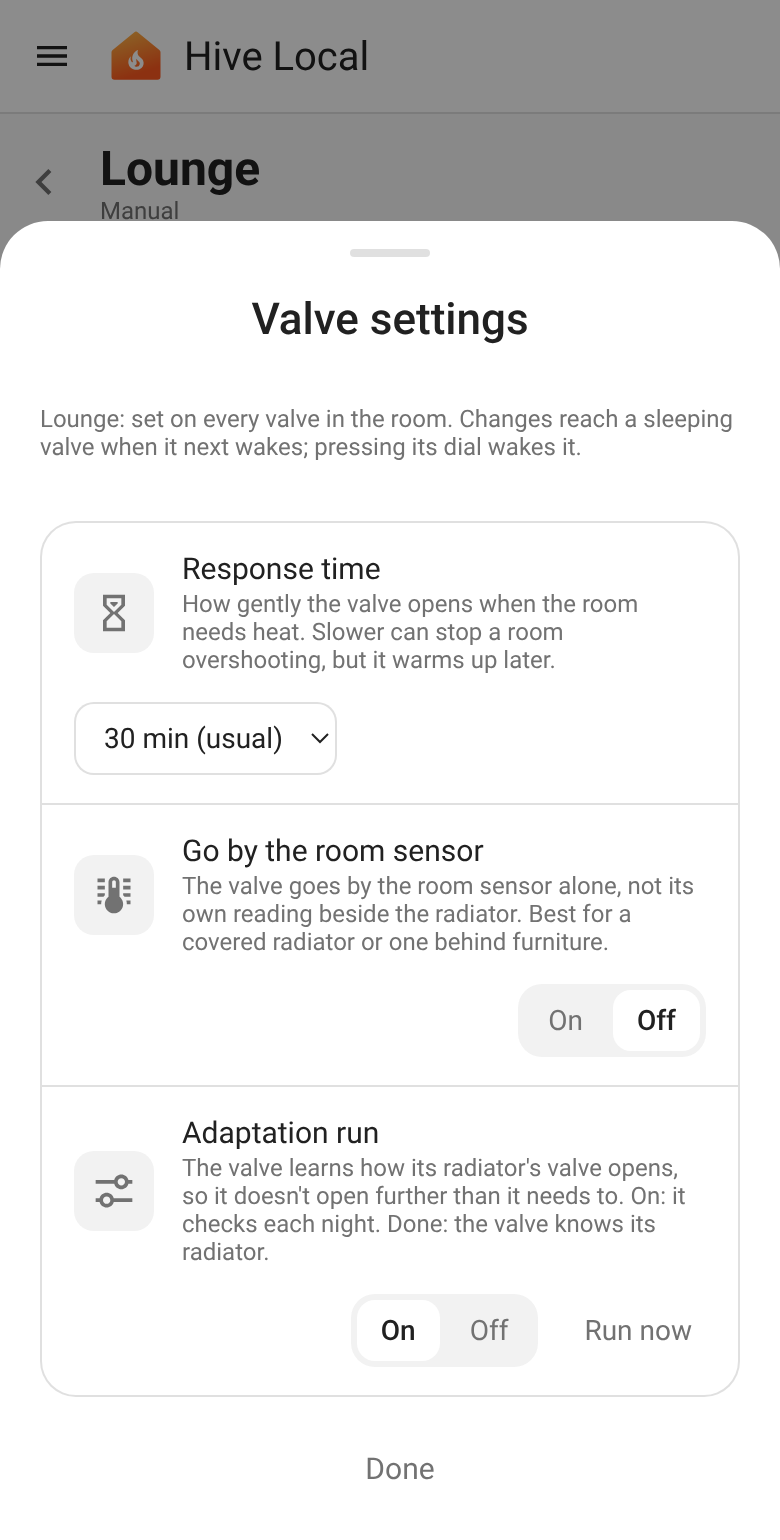
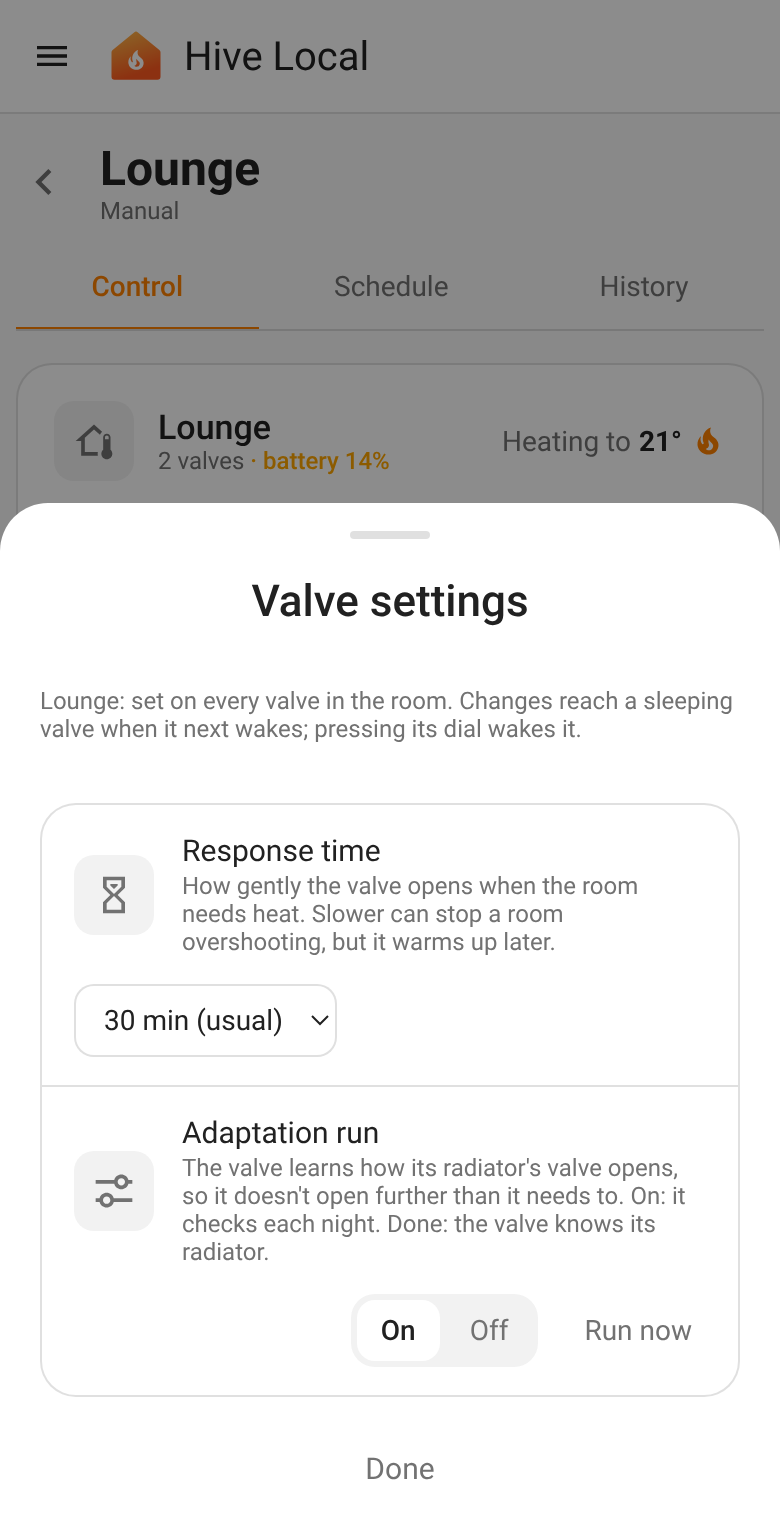
refactor(rooms): drop the radiator covered setting from valve settings
Only for a radiator behind a cover or furniture, which isn't Elliot's case: the valve then goes by the room sensor alone, which reacts slowly and can add to overshoot. The room sensor is still sent to the valves, which use it to correct their own reading.

Claude-Session: https://claude.ai/code/session_01P2tYEX1hUAEHMdkq1r3atj

diff --git a/custom_components/hive_local/frontend/hive-local-panel.js b/custom_components/hive_local/frontend/hive-local-panel.js
@@ -8016,7 +8016,7 @@ function Ue({ getHass: e, room: t, onClose: n }) {
 			onClick: () => t.value !== n && h(e, n),
 			children: n ? "On" : "Off"
 		}, String(n)))
-	}), x = g && !g.response.supported && !g.covered.supported && !g.adaptation.supported && !g.adaptation_run.supported;
+	}), x = g && !g.response.supported && !g.adaptation.supported && !g.adaptation_run.supported;
 	return /* @__PURE__ */ (0, f.jsx)("div", {
 		className: "sheet-backdrop",
 		onClick: (e) => {
@@ -8053,99 +8053,72 @@ function Ue({ getHass: e, room: t, onClose: n }) {
 				}),
 				g && !x && /* @__PURE__ */ (0, f.jsxs)("div", {
 					className: "settings-group",
-					children: [
-						g.response.supported > 0 && /* @__PURE__ */ (0, f.jsxs)("div", {
-							className: "settings-row",
-							children: [
-								/* @__PURE__ */ (0, f.jsx)("span", {
-									className: "device-icon",
-									children: /* @__PURE__ */ (0, f.jsx)(p, { name: "timer-sand" })
-								}),
-								/* @__PURE__ */ (0, f.jsxs)("div", {
-									className: "settings-text",
-									children: [/* @__PURE__ */ (0, f.jsx)("span", { children: "Response time" }), /* @__PURE__ */ (0, f.jsxs)("span", {
-										className: "muted small",
-										children: [
-											"How gently the valve opens when the room needs heat. Slower can stop a room overshooting, but it warms up later.",
-											v(g.response),
-											_(g.response)
-										]
-									})]
-								}),
-								/* @__PURE__ */ (0, f.jsxs)("select", {
-									"aria-label": "Response time",
-									value: g.response.value == null ? "" : String(g.response.value),
+					children: [g.response.supported > 0 && /* @__PURE__ */ (0, f.jsxs)("div", {
+						className: "settings-row",
+						children: [
+							/* @__PURE__ */ (0, f.jsx)("span", {
+								className: "device-icon",
+								children: /* @__PURE__ */ (0, f.jsx)(p, { name: "timer-sand" })
+							}),
+							/* @__PURE__ */ (0, f.jsxs)("div", {
+								className: "settings-text",
+								children: [/* @__PURE__ */ (0, f.jsx)("span", { children: "Response time" }), /* @__PURE__ */ (0, f.jsxs)("span", {
+									className: "muted small",
+									children: [
+										"How gently the valve opens when the room needs heat. Slower can stop a room overshooting, but it warms up later.",
+										v(g.response),
+										_(g.response)
+									]
+								})]
+							}),
+							/* @__PURE__ */ (0, f.jsxs)("select", {
+								"aria-label": "Response time",
+								value: g.response.value == null ? "" : String(g.response.value),
+								disabled: a,
+								onChange: (e) => e.target.value && h("response", Number(e.target.value)),
+								children: [g.response.value == null && /* @__PURE__ */ (0, f.jsx)("option", {
+									value: "",
+									children: "Unknown"
+								}), r.response_minutes.map((e) => /* @__PURE__ */ (0, f.jsxs)("option", {
+									value: e,
+									children: [
+										e,
+										" min",
+										e === 30 ? " (usual)" : ""
+									]
+								}, e))]
+							})
+						]
+					}), (g.adaptation.supported > 0 || g.adaptation_run.supported > 0) && /* @__PURE__ */ (0, f.jsxs)("div", {
+						className: "settings-row",
+						children: [
+							/* @__PURE__ */ (0, f.jsx)("span", {
+								className: "device-icon",
+								children: /* @__PURE__ */ (0, f.jsx)(p, { name: "tune-variant" })
+							}),
+							/* @__PURE__ */ (0, f.jsxs)("div", {
+								className: "settings-text",
+								children: [/* @__PURE__ */ (0, f.jsx)("span", { children: "Adaptation run" }), /* @__PURE__ */ (0, f.jsxs)("span", {
+									className: "muted small",
+									children: [
+										"The valve learns how its radiator's valve opens, so it doesn't open further than it needs to. On: it checks each night.",
+										g.adaptation_status.value == null ? "" : ` ${Ve[String(g.adaptation_status.value)] ?? ""}${g.adaptation_status.mixed ? " on some valves" : ""}.`,
+										v(g.adaptation),
+										_(g.adaptation)
+									]
+								})]
+							}),
+							/* @__PURE__ */ (0, f.jsxs)("div", {
+								className: "settings-controls",
+								children: [g.adaptation.supported > 0 && y("adaptation", g.adaptation, "Adaptation run"), g.adaptation_run.supported > 0 && /* @__PURE__ */ (0, f.jsx)("button", {
+									className: "ghost",
 									disabled: a,
-									onChange: (e) => e.target.value && h("response", Number(e.target.value)),
-									children: [g.response.value == null && /* @__PURE__ */ (0, f.jsx)("option", {
-										value: "",
-										children: "Unknown"
-									}), r.response_minutes.map((e) => /* @__PURE__ */ (0, f.jsxs)("option", {
-										value: e,
-										children: [
-											e,
-											" min",
-											e === 30 ? " (usual)" : ""
-										]
-									}, e))]
-								})
-							]
-						}),
-						g.covered.supported > 0 && /* @__PURE__ */ (0, f.jsxs)("div", {
-							className: "settings-row",
-							children: [
-								/* @__PURE__ */ (0, f.jsx)("span", {
-									className: "device-icon",
-									children: /* @__PURE__ */ (0, f.jsx)(p, { name: "thermometer-lines" })
-								}),
-								/* @__PURE__ */ (0, f.jsxs)("div", {
-									className: "settings-text",
-									children: [/* @__PURE__ */ (0, f.jsx)("span", { children: "Go by the room sensor" }), /* @__PURE__ */ (0, f.jsxs)("span", {
-										className: "muted small",
-										children: [
-											"The valve goes by the room sensor alone, not its own reading beside the radiator. Best for a covered radiator or one behind furniture.",
-											v(g.covered),
-											_(g.covered)
-										]
-									})]
-								}),
-								/* @__PURE__ */ (0, f.jsx)("div", {
-									className: "settings-controls",
-									children: y("covered", g.covered, "Go by the room sensor")
-								})
-							]
-						}),
-						(g.adaptation.supported > 0 || g.adaptation_run.supported > 0) && /* @__PURE__ */ (0, f.jsxs)("div", {
-							className: "settings-row",
-							children: [
-								/* @__PURE__ */ (0, f.jsx)("span", {
-									className: "device-icon",
-									children: /* @__PURE__ */ (0, f.jsx)(p, { name: "tune-variant" })
-								}),
-								/* @__PURE__ */ (0, f.jsxs)("div", {
-									className: "settings-text",
-									children: [/* @__PURE__ */ (0, f.jsx)("span", { children: "Adaptation run" }), /* @__PURE__ */ (0, f.jsxs)("span", {
-										className: "muted small",
-										children: [
-											"The valve learns how its radiator's valve opens, so it doesn't open further than it needs to. On: it checks each night.",
-											g.adaptation_status.value == null ? "" : ` ${Ve[String(g.adaptation_status.value)] ?? ""}${g.adaptation_status.mixed ? " on some valves" : ""}.`,
-											v(g.adaptation),
-											_(g.adaptation)
-										]
-									})]
-								}),
-								/* @__PURE__ */ (0, f.jsxs)("div", {
-									className: "settings-controls",
-									children: [g.adaptation.supported > 0 && y("adaptation", g.adaptation, "Adaptation run"), g.adaptation_run.supported > 0 && /* @__PURE__ */ (0, f.jsx)("button", {
-										className: "ghost",
-										disabled: a,
-										onClick: () => h("adaptation_run", void 0, "Asked the valves to run it. It takes a few minutes, once each valve wakes."),
-										children: "Run now"
-									})]
-								})
-							]
-						})
-					]
+									onClick: () => h("adaptation_run", void 0, "Asked the valves to run it. It takes a few minutes, once each valve wakes."),
+									children: "Run now"
+								})]
+							})
+						]
+					})]
 				}),
 				/* @__PURE__ */ (0, f.jsx)("button", {
 					className: "ghost sheet-cancel",

diff --git a/frontend/src/ValveSettings.tsx b/frontend/src/ValveSettings.tsx
@@ -2,7 +2,7 @@ import { useEffect, useState } from "react";
 import { Icon } from "./Icon";
 import { errorText, type Hass, type Room } from "./types";
 
-type Key = "response" | "covered" | "adaptation" | "adaptation_run" | "adaptation_status";
+type Key = "response" | "adaptation" | "adaptation_run" | "adaptation_status";
 
 interface Setting {
   value: number | boolean | string | null;
@@ -83,7 +83,7 @@ export function ValveSettingsDialog({ getHass, room, onClose }: { getHass: () =>
       ))}
     </div>
   );
-  const none = s && !s.response.supported && !s.covered.supported && !s.adaptation.supported && !s.adaptation_run.supported;
+  const none = s && !s.response.supported && !s.adaptation.supported && !s.adaptation_run.supported;
 
   return (
     <div className="sheet-backdrop" onClick={(e) => { e.stopPropagation(); onClose(); }}>
@@ -112,19 +112,6 @@ export function ValveSettingsDialog({ getHass, room, onClose }: { getHass: () =>
                     </option>
                   ))}
                 </select>
-              </div>
-            )}
-            {s.covered.supported > 0 && (
-              <div className="settings-row">
-                <span className="device-icon"><Icon name="thermometer-lines" /></span>
-                <div className="settings-text">
-                  <span>Go by the room sensor</span>
-                  <span className="muted small">
-                    The valve goes by the room sensor alone, not its own reading beside the radiator. Best for a covered radiator or one behind furniture.
-                    {mixed(s.covered)}{partly(s.covered)}
-                  </span>
-                </div>
-                <div className="settings-controls">{onOff("covered", s.covered, "Go by the room sensor")}</div>
               </div>
             )}
             {(s.adaptation.supported > 0 || s.adaptation_run.supported > 0) && (

diff --git a/docs/screenshots/harness/harness.js b/docs/screenshots/harness/harness.js
@@ -270,7 +270,6 @@ const hass = {
           response_minutes: [5, 10, 15, 25, 30, 40, 50, 60, 70, 80],
           settings: {
             response: { value: 30, mixed, supported: 2 },
-            covered: { value: false, mixed: false, supported: 2 },
             adaptation: { value: true, mixed: false, supported: 2 },
             adaptation_run: { value: null, mixed: false, supported: 2 },
             adaptation_status: { value: "found", mixed: false, supported: 2 },

diff --git a/tests/e2e/test_valve_settings_e2e.py b/tests/e2e/test_valve_settings_e2e.py
@@ -48,9 +48,10 @@ async def test_valve_settings(hass: HomeAssistant, mqtt_mock, hass_ws_client) ->
     valve_a = entity(hass, zha, a, "climate", f"{IEEE}-1", "bedroom_valve", "heat", {"current_temperature": 19, "temperature": 20})
     response_a = entity(hass, zha, a, "select", f"{IEEE}-1-513-control_algorithm_scale_factor", "bedroom_valve_response",
                         "moderate 30min", {"options": ZHA_OPTIONS}, "setpoint_response_time")
-    covered_a = entity(hass, zha, a, "switch", f"{IEEE}-1-513-radiator_covered", "bedroom_valve_covered", "off",
-                       translation_key="prioritize_external_temperature_sensor")
-    entity(hass, zha, a, "switch", f"{IEEE}-1-513-adaptation_run_settings", "bedroom_valve_adaptation", "on",
+    # Radiator covered is left out of the settings.
+    entity(hass, zha, a, "switch", f"{IEEE}-1-513-radiator_covered", "bedroom_valve_covered", "off",
+           translation_key="prioritize_external_temperature_sensor")
+    adaptation_a = entity(hass, zha, a, "switch", f"{IEEE}-1-513-adaptation_run_settings", "bedroom_valve_adaptation", "on",
            translation_key="adaptation_run_enabled")
     run_a = entity(hass, zha, a, "select", f"{IEEE}-1-513-adaptation_run_control", "bedroom_valve_run", "Nothing",
                    {"options": ["Nothing", "Initiate", "Cancel"]}, "adaptation_run_command")
@@ -62,14 +63,14 @@ async def test_valve_settings(hass: HomeAssistant, mqtt_mock, hass_ws_client) ->
                      {"current_temperature": 19.5, "temperature": 20})
     response_b = entity(hass, z2m, b, "number", "0x84fd27fffe000002_control_algorithm_scale_factor_zigbee2mqtt",
                         "bedroom_window_valve_scale", "10", {"min": 1, "max": 10})
-    covered_b = entity(hass, z2m, b, "switch", "0x84fd27fffe000002_radiator_covered_zigbee2mqtt", "bedroom_window_valve_covered", "off")
+    adaptation_b = entity(hass, z2m, b, "switch", "0x84fd27fffe000002_adaptation_run_settings_zigbee2mqtt", "bedroom_window_valve_adaptation", "off")
 
     assert await hass.config_entries.async_setup(receiver.entry_id)
     await hass.async_block_till_done()
     # After setup: our own select, number and switch platforms register the real services.
     selects = async_mock_service(hass, "select", "select_option")
     numbers = async_mock_service(hass, "number", "set_value")
-    switches = async_mock_service(hass, "switch", "turn_on")
+    switches = async_mock_service(hass, "switch", "turn_off")
     manager = hass.data["hive_local_rooms"]
     room = await manager.async_save_room({"name": "Bedroom", "valves": [valve_a, valve_b]})
     client = await hass_ws_client(hass)
@@ -79,8 +80,8 @@ async def test_valve_settings(hass: HomeAssistant, mqtt_mock, hass_ws_client) ->
     assert msg["success"], msg
     settings = msg["result"]["settings"]
     assert settings["response"] == {"value": 30, "mixed": True, "supported": 2}  # 30 min and 80 min
-    assert settings["covered"] == {"value": False, "mixed": False, "supported": 2}
-    assert settings["adaptation"] == {"value": True, "mixed": False, "supported": 1}
+    assert "covered" not in settings
+    assert settings["adaptation"] == {"value": True, "mixed": True, "supported": 2}
     assert settings["adaptation_status"]["value"] == "found"
     assert msg["result"]["count"] == 2
 
@@ -91,10 +92,10 @@ async def test_valve_settings(hass: HomeAssistant, mqtt_mock, hass_ws_client) ->
     assert [(c.data["entity_id"], c.data["option"]) for c in selects] == [(response_a, "slow 80min")]
     assert [(c.data["entity_id"], c.data["value"]) for c in numbers] == [(response_b, 10)]
 
-    await client.send_json({"id": 3, "type": "hive_local/rooms/valve_settings/set", "room_id": room["id"], "key": "covered", "value": True})
+    await client.send_json({"id": 3, "type": "hive_local/rooms/valve_settings/set", "room_id": room["id"], "key": "adaptation", "value": False})
     msg = await client.receive_json()
     assert msg["success"], msg
-    assert sorted(c.data["entity_id"] for c in switches) == sorted([covered_a, covered_b])
+    assert sorted(c.data["entity_id"] for c in switches) == sorted([adaptation_a, adaptation_b])
 
     # An adaptation run: only the ZHA valve has the control.
     await client.send_json({"id": 4, "type": "hive_local/rooms/valve_settings/set", "room_id": room["id"], "key": "adaptation_run"})

diff --git a/custom_components/hive_local/valve_settings.py b/custom_components/hive_local/valve_settings.py
@@ -7,14 +7,15 @@ valve in a room at once. The ones that matter for how gently a room warms up:
   opens after its target or the temperature changes. Slower opens more gently, which can
   mean less overshoot, but a slower warm-up. ZHA: a select (`setpoint_response_time`) with
   options "quick 5min" … "slow 80min"; Z2M: a number, 1–10.
-- **Radiator covered** (`radiator_covered`): the valve goes by the room sensor's reading
-  instead of its own (the room sensor is sent more often then, see `valve_sensor.py`).
 - **Adaptation run** (`adaptation_run_settings` on, `adaptation_run_control` to start one,
   `adaptation_run_status`): the valve learns how its radiator's valve opens. Each night when
   it's on; once by hand after fitting or moving it.
 
-Load balancing is left out: it needs something writing the house's average load to every
-valve, which neither ZHA nor Z2M does.
+Left out: load balancing (it needs something writing the house's average load to every
+valve, which neither ZHA nor Z2M does) and radiator covered (only for a radiator behind a
+cover or furniture; the valve then goes by the room sensor alone, which reacts slowly and
+can make overshoot worse. Elliot, 2026-11-26: not wanted. `valve_sensor.py` still reads it
+for how often to send the room sensor, if it's switched on in HA).
 """
 
 from __future__ import annotations
@@ -22,7 +23,6 @@ from __future__ import annotations
 from typing import Any
 
 RESPONSE = "response"
-COVERED = "covered"
 ADAPTATION = "adaptation"
 ADAPTATION_RUN = "adaptation_run"
 ADAPTATION_STATUS = "adaptation_status"
@@ -30,7 +30,6 @@ ADAPTATION_STATUS = "adaptation_status"
 # key: (domains, attribute names in unique ids / object ids, ZHA translation keys)
 _ROLES: dict[str, tuple[tuple[str, ...], tuple[str, ...], tuple[str, ...]]] = {
     RESPONSE: (("select", "number"), ("control_algorithm_scale_factor",), ("setpoint_response_time",)),
-    COVERED: (("switch",), ("radiator_covered",), ("prioritize_external_temperature_sensor",)),
     ADAPTATION: (("switch",), ("adaptation_run_settings",), ("adaptation_run_enabled",)),
     ADAPTATION_RUN: (("select",), ("adaptation_run_control",), ("adaptation_run_command",)),
     ADAPTATION_STATUS: (("sensor",), ("adaptation_run_status",), ("adaptation_run_status",)),
@@ -88,7 +87,7 @@ def read(key: str, domain: str, state: str | None, attributes: dict[str, Any]) -
     if key == RESPONSE:
         factor = _ZHA_RESPONSE_VALUES.get(state) if domain == "select" else _number(state)
         return RESPONSE_MINUTES.get(int(factor)) if factor is not None and float(factor).is_integer() else None
-    if key in (COVERED, ADAPTATION):
+    if key == ADAPTATION:
         return state == "on" if state in ("on", "off") else None
     if key == ADAPTATION_STATUS:
         if attributes and any(k in attributes for k in ("In_progress", "Valve_characteristic_found", "Valve_characteristic_lost")):
@@ -129,7 +128,7 @@ def call(key: str, domain: str, value: Any, options: list[str] | None = None) ->
                 return None
             return "select", "select_option", {"option": option}
         return "number", "set_value", {"value": factor}
-    if key in (COVERED, ADAPTATION):
+    if key == ADAPTATION:
         if not isinstance(value, bool):
             return None
         return "switch", "turn_on" if value else "turn_off", {}

diff --git a/tests/test_valve_settings.py b/tests/test_valve_settings.py
@@ -11,7 +11,7 @@ def test_finds_zha_and_z2m_entities():
     role = v.entity_role
     assert role("select", f"{IEEE}-1-513-control_algorithm_scale_factor", "setpoint_response_time", "select.x") == v.RESPONSE
     assert role("number", "0x84fd27fffe000001_control_algorithm_scale_factor_zigbee2mqtt", None, "number.x") == v.RESPONSE
-    assert role("switch", f"{IEEE}-1-513-radiator_covered", "prioritize_external_temperature_sensor", "switch.x") == v.COVERED
+    assert role("switch", f"{IEEE}-1-513-radiator_covered", "prioritize_external_temperature_sensor", "switch.x") is None  # left out
     assert role("switch", "0x84fd_adaptation_run_settings_zigbee2mqtt", None, "switch.x") == v.ADAPTATION
     assert role("select", f"{IEEE}-1-513-adaptation_run_control", "adaptation_run_command", "select.x") == v.ADAPTATION_RUN
     assert role("sensor", "0x84fd_adaptation_run_status_zigbee2mqtt", None, "sensor.x") == v.ADAPTATION_STATUS
@@ -28,7 +28,7 @@ def test_reads_the_response_time_in_minutes():
 
 
 def test_reads_switches_and_the_adaptation_status():
-    assert v.read(v.COVERED, "switch", "on", {}) is True
+    assert v.read(v.ADAPTATION, "switch", "on", {}) is True
     assert v.read(v.ADAPTATION, "switch", "off", {}) is False
     assert v.read(v.ADAPTATION, "switch", "unknown", {}) is None
     zha = {"In_progress": False, "Valve_characteristic_found": True, "Valve_characteristic_lost": False}
@@ -44,7 +44,7 @@ def test_service_calls():
     assert v.call(v.RESPONSE, "select", 40, zha_options) is None  # not an option on this entity
     assert v.call(v.RESPONSE, "number", 40) == ("number", "set_value", {"value": 6})
     assert v.call(v.RESPONSE, "number", 33) is None
-    assert v.call(v.COVERED, "switch", True) == ("switch", "turn_on", {})
+    assert v.call(v.ADAPTATION, "switch", True) == ("switch", "turn_on", {})
     assert v.call(v.ADAPTATION, "switch", False) == ("switch", "turn_off", {})
     assert v.call(v.ADAPTATION, "switch", 1) is None
     assert v.call(v.ADAPTATION_RUN, "select", None, ["Nothing", "Initiate", "Cancel"]) == ("select", "select_option", {"option": "Initiate"})

diff --git a/custom_components/hive_local/room_manager.py b/custom_components/hive_local/room_manager.py
@@ -244,7 +244,7 @@ class RoomManager:
             state = self.hass.states.get(entity_id)
             per_valve.append({"entity_id": entity_id, "name": state.name if state else entity_id, "settings": values})
         settings = {}
-        for key in (vset.RESPONSE, vset.COVERED, vset.ADAPTATION, vset.ADAPTATION_RUN, vset.ADAPTATION_STATUS):
+        for key in (vset.RESPONSE, vset.ADAPTATION, vset.ADAPTATION_RUN, vset.ADAPTATION_STATUS):
             having = [v["settings"][key] for v in per_valve if key in v["settings"]]
             value, mixed = vset.combine(having)
             settings[key] = {"value": value, "mixed": mixed, "supported": len(having)}

diff --git a/custom_components/hive_local/websocket.py b/custom_components/hive_local/websocket.py
@@ -710,7 +710,7 @@ async def ws_rooms_valve_settings(hass, connection, msg: dict[str, Any], rooms: 
 @websocket_api.websocket_command(
     {
         vol.Required("type"): "hive_local/rooms/valve_settings/set",
-        vol.Required("key"): vol.In(["response", "covered", "adaptation", "adaptation_run"]),
+        vol.Required("key"): vol.In(["response", "adaptation", "adaptation_run"]),
         vol.Optional("value"): vol.Any(bool, vol.Coerce(int)),
     }
     | ROOM

diff --git a/CLAUDE.md b/CLAUDE.md
@@ -29,7 +29,7 @@ Don't use the domain `hive`: HA core's cloud Hive integration already has it, an
   - Tidy up duplicate entities (2026-11-26): `tidy.Tidy` (`hass.data[DATA_TIDY]`, created in `async_setup`, `.storage/hive_local.tidy`). Settings → **Entities** → "Tidy up duplicate entities" **disables** the receiver's own climate / water_heater entities on its ZHA device (the entry's `device_id`) or Z2M device (the MQTT device named after the friendly name with a `zigbee2mqtt_0x…` identifier), which Hive Local never uses, and **hides** (never disables) the climate entities of valves in a room, since rooms read and set the valves through them. Both are marked as the user's (`disabled_by` / `hidden_by` = user), so they can be switched back in HA; `changed` records what we did, and Undo puts back only those that are still as we left them. `hive_local/tidy | tidy/apply | tidy/undo` → `{receiver, valves, pending, undoable}`. `tests/e2e/test_tidy_e2e.py`.
   - Onboarding (2026-11-26): `frontend/src/Onboarding.tsx`, a walkthrough dialog (the room editor's sheet/dialog frame) shown when the panel opens until it's finished or skipped, remembered house-wide as `HouseSettings.onboarded` (`.storage/hive_local.settings`; `hive_local/settings` returns it, `settings/set {onboarded}`; false by default, so existing installs see it once). Steps, each skippable: **Your rooms** (how many areas have Hive valves not in a room, Set up rooms → `RoomSetupDialog`; mentions the room sensor going to the valves, which is on by default), **Rooms call for heat** (Settings' `DemandRows` per heating receiver; skipped without one), **Tidy up duplicate entities** (Settings' `TidySettings`, `bare`), **Outside temperature** (the house-wide select), **You're all set** (→ the Overview). Step dots, Back / Next, Skip setup; Settings ends with "Run setup again". Harness: `?onboarding=1` and `click=Next` (repeatable). `tests/e2e/test_onboarding_e2e.py`.
   - Room page (2026-11-26, Elliot: "make the rad valve page the same as the receiver one, it's an identical idea"): tapping a room card opens `RoomPage.tsx` in place of the old `RoomSheet` pop-up (gone), like `DevicePage`: back arrow, the room's name and mode (`roomModeText`: Manual / On the valves' schedule / Off / Boost · 42 min left), then **Control · Schedule · History** (the app's `deviceTab`). Control = the room's `RoomCard` with `page` (temperature and Boost) and `RoomControl` (`Rooms.tsx`: the sensor note, Target − / + (taps gathered 1.2 s → `rooms/set_target`), **Schedule / Manual / Off** → `hive_local/rooms/mode` = `RoomManager.async_set_mode`, the same modes as the room's climate entity, valves, Edit room). Schedule = `RoomScheduleDialog` with `page` (no dialog frame, kept mounted once opened). History = `Stats` with `roomId` → `hive_local/rooms/stats` (the shared `_async_stats` on the room's climate entity, unique id `room_<id>`; no cost; "Valves heating", "Started heating"). Rooms carry `mode` and `frost` in their status.
-  - Valve settings (2026-11-26, for overshoot): `valve_settings.py` (pure, tested) finds a Hive valve's (Danfoss Ally's) own setting entities on its device, ZHA (zha 2.3.1 translation keys / unique id suffixes) or Z2M (`<ieee>_<property>_zigbee2mqtt`): **response time** (`control_algorithm_scale_factor`: ZHA select `setpoint_response_time`, options "quick 5min" … "slow 80min"; Z2M number 1–10; shown as 5–80 min, 30 the usual), **radiator covered** (the same switch `valve_sensor` reads), **adaptation run** (`adaptation_run_settings` switch, `adaptation_run_control` select to start one: ZHA "Initiate", Z2M "initiate_adaptation", `adaptation_run_status`: ZHA's bitmap sensor keeps the bits as attributes). Load balancing is left out (needs something writing the house's mean load to every valve). `RoomManager.valve_settings` / `async_set_valve_setting` set one setting on every valve in a room that has it (`combine`: the most common value, `mixed`). Websocket `hive_local/rooms/valve_settings {room_id}` and `rooms/valve_settings/set {room_id, key, value?}`. Panel: "Valve settings" on the room page's Control tab → `ValveSettingsDialog` (`ValveSettings.tsx`). `tests/e2e/test_valve_settings_e2e.py`. Unverified on real valves (option names, Z2M ids).
+  - Valve settings (2026-11-26, for overshoot): `valve_settings.py` (pure, tested) finds a Hive valve's (Danfoss Ally's) own setting entities on its device, ZHA (zha 2.3.1 translation keys / unique id suffixes) or Z2M (`<ieee>_<property>_zigbee2mqtt`): **response time** (`control_algorithm_scale_factor`: ZHA select `setpoint_response_time`, options "quick 5min" … "slow 80min"; Z2M number 1–10; shown as 5–80 min, 30 the usual), **adaptation run** (`adaptation_run_settings` switch, `adaptation_run_control` select to start one: ZHA "Initiate", Z2M "initiate_adaptation", `adaptation_run_status`: ZHA's bitmap sensor keeps the bits as attributes). Left out: load balancing (needs something writing the house's mean load to every valve) and **radiator covered** (Elliot, 2026-11-26, his radiators aren't covered: removed from the dialog; the valve then goes by the room sensor alone, which reacts slowly and can add to overshoot. The room sensor is still sent to the valves, which use it to correct their own reading, and `valve_sensor` still reads the switch for the send interval). `RoomManager.valve_settings` / `async_set_valve_setting` set one setting on every valve in a room that has it (`combine`: the most common value, `mixed`). Websocket `hive_local/rooms/valve_settings {room_id}` and `rooms/valve_settings/set {room_id, key, value?}`. Panel: "Valve settings" on the room page's Control tab → `ValveSettingsDialog` (`ValveSettings.tsx`). `tests/e2e/test_valve_settings_e2e.py`. Unverified on real valves (option names, Z2M ids).
   - Pure helpers with no HA imports, unit-tested in `tests/`: `schedule.py` (schedule parse/validate/group/payloads), `z2m.py` (state → mode/status, and mode/boost payloads), `zcl.py` (the same for raw ZCL attributes and set/get_weekly_schedule args, for ZHA) and `devices.py` (filter `bridge/devices`).
   - `const.py`: limits, boost defaults, and the **unverified** `WATER_ON` / `WATER_OFF`.
   - `frontend/hive-local-panel.js`: **built artifact**. Don't edit it. Run `npm run build` in `/frontend`.
